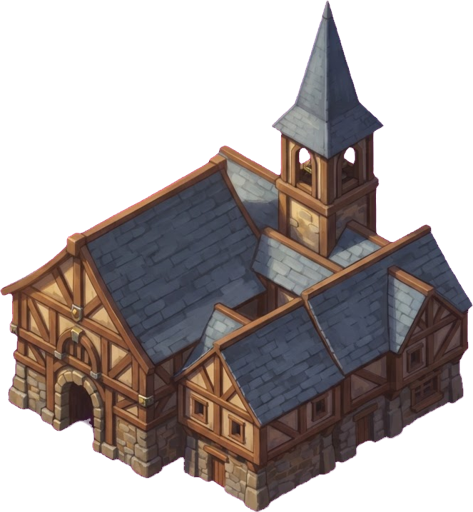
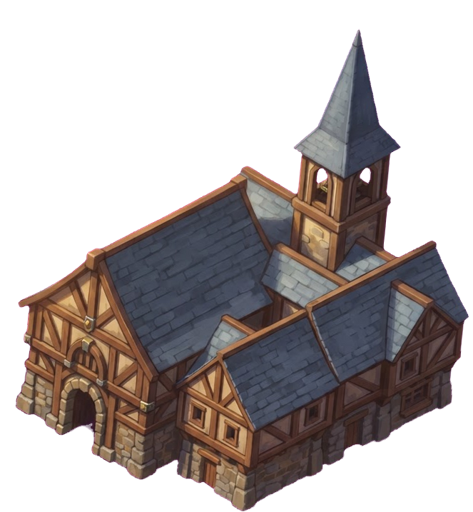
TC art: exact-fit normalization (measured base diamond warped to canonical) + anchor dy 4.4wu

Changed region(s): [[0.0, 0.0, 1.0, 1.0], [0.5624, 0.7188, 0.592, 0.75]]

diff --git a/web-preview/app.js b/web-preview/app.js
@@ -4167,15 +4167,18 @@ function drawTC(wx, wy, owner = 0) {
   shadow(sx, sy, (r[0] - l[0]) / 2);
   // Building sprite, footprint-based like drawNewBuilding: width =
   // 4 cells x CS x 1.12 (= 17.92 world units at CS = 4), base planted
-  // half-footprint x 0.45 (= 3.6) toward the front corner, so the
-  // art's ground-contact diamond coincides with the 4x4 footprint
-  // diamond. First choice is the Base44 test art; the CC0 placeholder
-  // is the fallback (same draw contract).
+  // The Base44 art is normalized in processing so its measured
+  // ground-contact diamond sits on the canonical diamond (width
+  // 0.893 x canvas, equator at canvas height - 0.2457 x canvas
+  // width): drawn at footprint x 1.12 wide with the anchor 4.4 wu
+  // above the sprite's bottom edge (half-footprint x 0.55), its
+  // base corners land exactly on the 4x4 footprint diamond.
+  // The CC0 placeholder is the fallback (same draw contract).
   const tcArtHalf = (TC_ART_CELLS * CS) / 2;
   if (drawSpriteW(BUILDING_ART.img.tc, sx, sy,
-    TC_ART_CELLS * CS * 1.12, tcArtHalf * 0.45)) return;
+    TC_ART_CELLS * CS * 1.12, tcArtHalf * 0.55)) return;
   if (drawSpriteW(SPRITES.tc, sx, sy,
-    TC_ART_CELLS * CS * 1.12, tcArtHalf * 0.45)) return;
+    TC_ART_CELLS * CS * 1.12, tcArtHalf * 0.55)) return;
   const h = 2.2 * camS; // wall height
   poly([l, b, up(b, h), up(l, h)], '#b09468'); // front-left wall
   poly([b, r, up(r, h), up(b, h)], '#8a6f45'); // front-right wall
